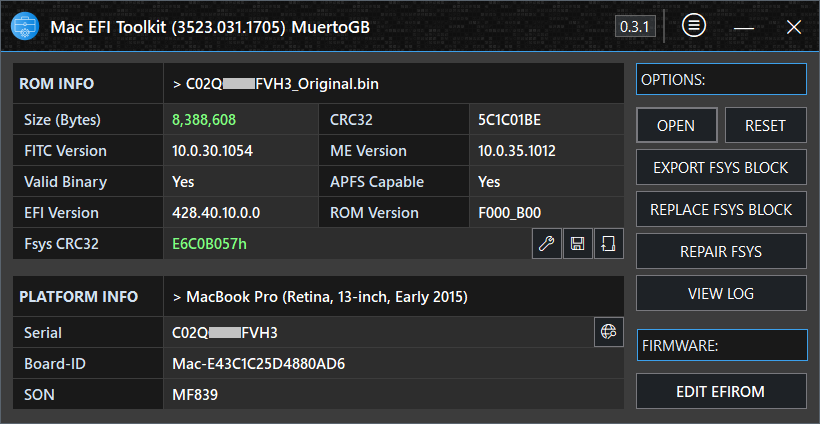
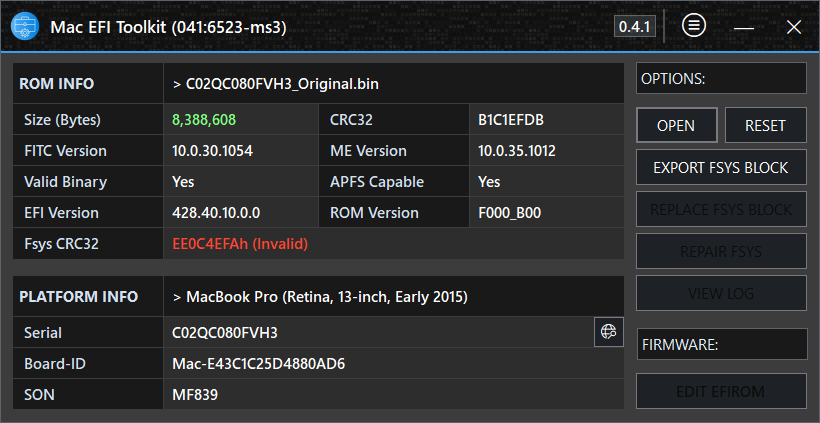
Bump to 041

diff --git a/mefit/WinForms/mainWindow.cs b/mefit/WinForms/mainWindow.cs
@@ -317,7 +317,7 @@ namespace Mac_EFI_Toolkit
             labEfiVersion.Text = strEfiVer;
             labRomVersion.Text = strBootrom;
             labApfsCapable.Text = strApfsCapable;
-            labFsysCrc.Text = $"{ strFsysChecksumInBinary }h";
+            labFsysCrc.Text = (strFsysCalculation == strFsysChecksumInBinary) ? $"{ strFsysChecksumInBinary }h" : $"{ strFsysChecksumInBinary }h (Invalid)";
             labFsysCrc.ForeColor = (strFsysCalculation == strFsysChecksumInBinary) ? labFsysCrc.ForeColor = clrGood : labFsysCrc.ForeColor = clrError;
             labValid.Text = ValidBinaryLoaded ? "Yes" : "No";
             labSerial.Text = strSerialNumber;

diff --git a/mefit/Properties/AssemblyInfo.cs b/mefit/Properties/AssemblyInfo.cs
@@ -32,5 +32,5 @@ using System.Runtime.InteropServices;
 // You can specify all the values or you can default the Build and Revision Numbers
 // by using the '*' as shown below:
 // [assembly: AssemblyVersion("1.0.*")]
-[assembly: AssemblyVersion("0.4.0")]
-[assembly: AssemblyFileVersion("0.4.0")]
+[assembly: AssemblyVersion("0.4.1")]
+[assembly: AssemblyFileVersion("0.4.1")]
